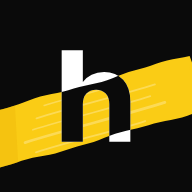
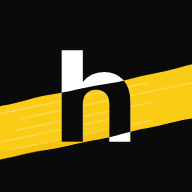
ícone: faixa com cara de marca-texto a 12°
- mesma disposição (h branco, faixa de ponta a ponta), com a faixa
  menos inclinada (16° para 12°), bordas levemente irregulares e as
  listras da ponta do marca-texto
- manifest aponta para icon-*-v3.png para o Chrome atualizar o ícone
  de quem já instalou; remove os v2

Claude-Session: https://claude.ai/code/session_01SXob1UsLhKcfySKAZSzJ2V

Changed region(s): [[0.0, 0.2812, 1.0, 0.875], [0.25, 0.4688, 0.375, 0.5], [0.9688, 0.4062, 1.0, 0.4375]]

diff --git a/app/manifest.ts b/app/manifest.ts
@@ -19,29 +19,29 @@ export default function manifest(): MetadataRoute.Manifest {
     theme_color: "#facc15",
     orientation: "portrait",
     icons: [
-      { src: "/icon-192-v2.png", sizes: "192x192", type: "image/png", purpose: "any" },
-      { src: "/icon-512-v2.png", sizes: "512x512", type: "image/png", purpose: "any" },
-      { src: "/icon-192-v2.png", sizes: "192x192", type: "image/png", purpose: "maskable" },
-      { src: "/icon-512-v2.png", sizes: "512x512", type: "image/png", purpose: "maskable" },
+      { src: "/icon-192-v3.png", sizes: "192x192", type: "image/png", purpose: "any" },
+      { src: "/icon-512-v3.png", sizes: "512x512", type: "image/png", purpose: "any" },
+      { src: "/icon-192-v3.png", sizes: "192x192", type: "image/png", purpose: "maskable" },
+      { src: "/icon-512-v3.png", sizes: "512x512", type: "image/png", purpose: "maskable" },
     ],
     shortcuts: [
       {
         name: "Revisar flashcards",
         short_name: "Revisar",
         url: "/review",
-        icons: [{ src: "/icon-192-v2.png", sizes: "192x192", type: "image/png" }],
+        icons: [{ src: "/icon-192-v3.png", sizes: "192x192", type: "image/png" }],
       },
       {
         name: "Minhas mídias",
         short_name: "Mídia",
         url: "/media",
-        icons: [{ src: "/icon-192-v2.png", sizes: "192x192", type: "image/png" }],
+        icons: [{ src: "/icon-192-v3.png", sizes: "192x192", type: "image/png" }],
       },
       {
         name: "Minhas aulas",
         short_name: "Aulas",
         url: "/lessons",
-        icons: [{ src: "/icon-192-v2.png", sizes: "192x192", type: "image/png" }],
+        icons: [{ src: "/icon-192-v3.png", sizes: "192x192", type: "image/png" }],
       },
     ],
   }

diff --git a/TASK.md b/TASK.md
@@ -94,7 +94,7 @@
 - [x] Ícone: "h" branco com passada de marca-texto na diagonal (icon-192/512, highlight-icon, app/icon, app/apple-icon)
 - [x] Badge das notificações com o mesmo "h"
 - [ ] Gerar de novo o `.aab` no PWABuilder para o ícone novo ir para o app Android
-- [x] Ícones do manifest com nome novo (icon-*-v2.png) para o Chrome atualizar o ícone do app instalado
+- [x] Faixa do ícone com cara de marca-texto (12°, bordas irregulares, listras); ícones do manifest com nome novo (icon-*-v3.png) para o Chrome atualizar o ícone do app instalado
 - [ ] Conferir o ícone na tela inicial do celular (remover os dois apps e instalar de novo pelo Chrome)
 
 ## Paleta de cores
